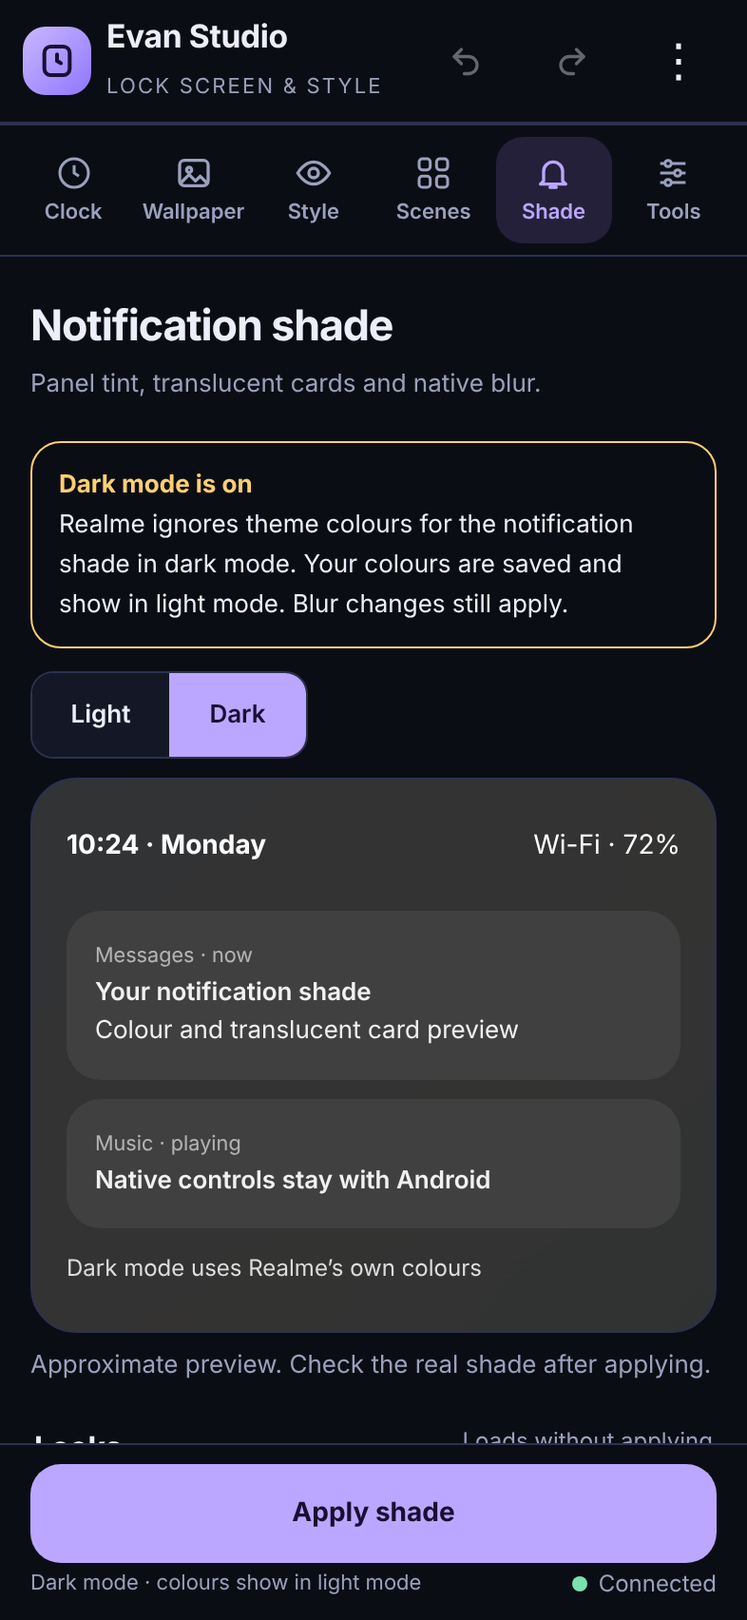
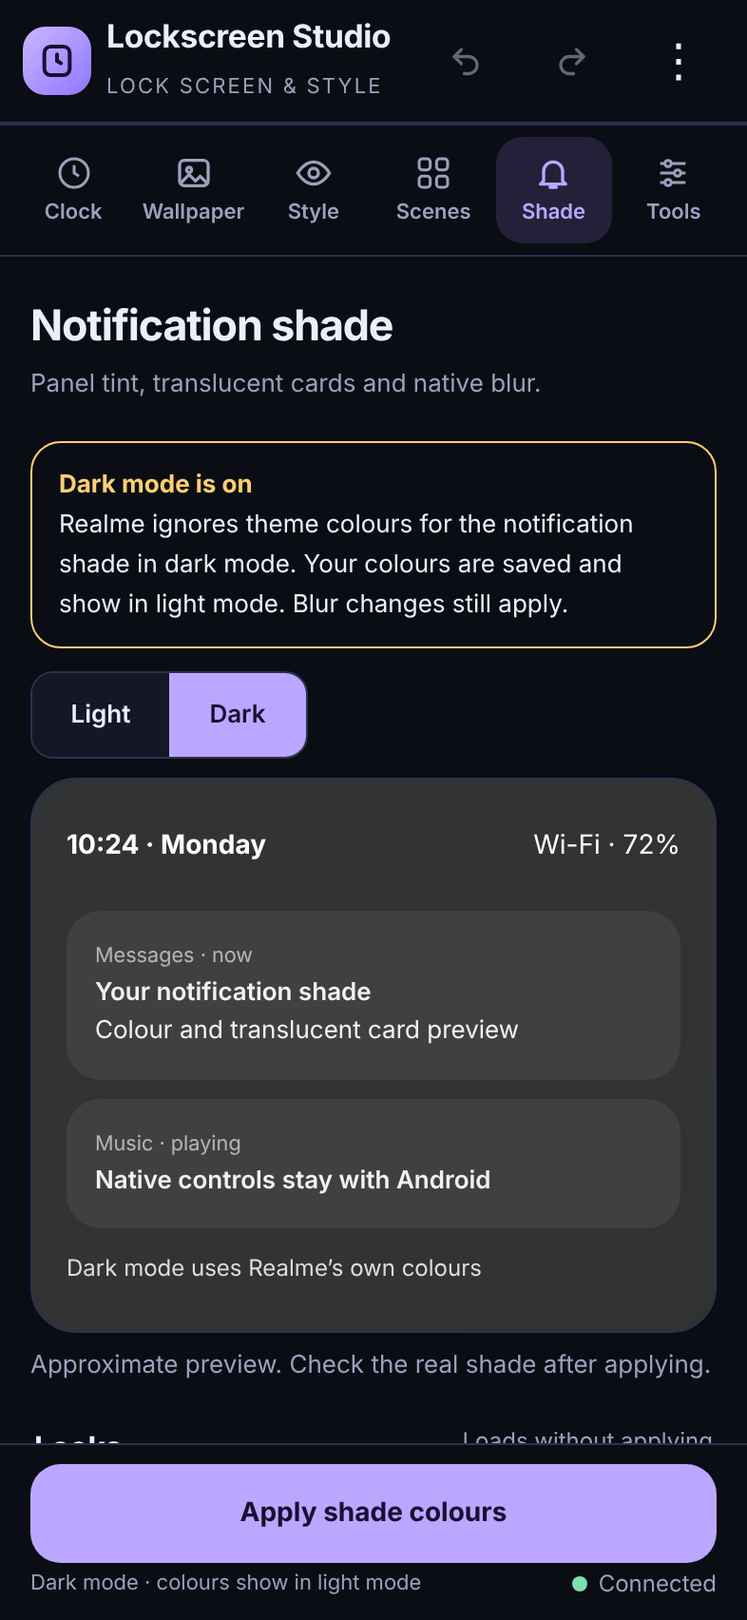
Rename the app to Lockscreen Studio in everything users see
- App label, editor header, theme metadata (Summary/Author), APK file name
  (Lockscreen-Studio-<version>.apk), the Downloads export folder
  (Download/LockscreenStudio) and export names (Lockscreen-Studio-,
  Lockscreen-Icons-, Lockscreen-Shade-), docs, release name and package.json.
- The example caption chip no longer inserts a personal name.
- Unchanged on purpose: package id np.evan.lockscreen, Java packages, and
  on-phone backup paths and file headers, so existing backups stay readable.
- Screenshots regenerated with the new name.

Claude-Session: https://claude.ai/code/session_019f7hZVUA3ZT7VV13Q7wsLy

Changed region(s): [[0.3359, 0.902, 0.6412, 0.9642], [0.1527, 0.0, 0.5191, 0.0311]]

diff --git a/assets/studio.html b/assets/studio.html
@@ -301,7 +301,7 @@ ol.steps2{padding-left:20px;display:grid;gap:8px;color:#c9cde2;font-size:0.84375
 <div class="app" id="app">
   <header class="top">
     <div class="logo"><svg width="20" height="20" viewBox="0 0 24 24" fill="none" stroke="currentColor" stroke-width="2.4" stroke-linecap="round"><rect x="4" y="3" width="16" height="18" rx="4"/><path d="M12 8v4l2.5 1.5"/></svg></div>
-    <div class="brand"><b>Evan Studio</b><small>Lock screen & style</small></div>
+    <div class="brand"><b>Lockscreen Studio</b><small>Lock screen & style</small></div>
     <button class="ib" id="undo" data-act="undo" aria-label="Undo"></button>
     <button class="ib" id="redo" data-act="redo" aria-label="Redo"></button>
     <button class="ib" data-act="editorMenu" aria-label="More options"></button>
@@ -574,7 +574,7 @@ function tabClock(){
  +`<div class="chips">${[['Upper','14,0'],['Centre','35,0'],['Lower','55,0'],['Left edge','35,-40'],['Right edge','35,40']].map(([l,v])=>`<button class="cp" data-act="place" data-v="${v}">${l}</button>`).join('')}</div>`)
  +sec('Typography','30 offline typefaces',card(`<button class="choice-row" data-act="fontPicker"><span class="sample" style="font-family:${f.f};font-weight:${fwOf(S)}">10:24</span><span class="choice-text"><b>${f.n}</b><small>Browse fonts</small></span><span aria-hidden="true">›</span></button>`+wrow)
  +`<details class="disclosure" data-disclosure="type"><summary>Fine-tune typography</summary>${slider('slant','Slant',0,20,1,'°')}${slider('spacing','Digit spacing',-10,30)}${slider('lh','Line spacing',60,140,1,'%')}${slider('rotate','Rotation',-45,45,1,'°')}${extra}<div class="row">${sel('align',[['left','Align left'],['center','Align centre'],['right','Align right']])}</div></details>`)
- +sec('Date & caption','Under the clock',card(toggle('showDate','Show date')+`<div class="row">${sel('dateStyle',['full','short','dm','caps','num','day'].map(v=>[v,dateText(v,new Date())]))}</div>`+slider('dateSize','Date size',20,70)+`<div class="row grid g2">${sel('dateFont',[['same','Match clock'],['inter','Inter'],['jetbrains','JetBrains Mono'],['fraunces','Fraunces'],['barlow','Barlow Condensed'],['spacegrotesk','Space Grotesk']])}${sel('dateCase',[['normal','Normal case'],['upper','UPPERCASE']])}</div>`+slider('dateTrack','Date tracking',0,30)+`<div class="row"><p class="mu sm" style="margin-bottom:8px">Personal caption</p><input class="txt" data-key="caption" value="${S.caption.replace(/"/g,'&quot;')}" maxlength="60" placeholder="Name, motto, or contact for lost phone"><div class="chips">${[['Name','Evan'],['If found, call…','If found, call +977-'],['Motto','Stay curious'],['Clear','']].map(([l,v])=>`<button class="cp" data-act="caption" data-v="${v}">${l}</button>`).join('')}</div></div>`))
+ +sec('Date & caption','Under the clock',card(toggle('showDate','Show date')+`<div class="row">${sel('dateStyle',['full','short','dm','caps','num','day'].map(v=>[v,dateText(v,new Date())]))}</div>`+slider('dateSize','Date size',20,70)+`<div class="row grid g2">${sel('dateFont',[['same','Match clock'],['inter','Inter'],['jetbrains','JetBrains Mono'],['fraunces','Fraunces'],['barlow','Barlow Condensed'],['spacegrotesk','Space Grotesk']])}${sel('dateCase',[['normal','Normal case'],['upper','UPPERCASE']])}</div>`+slider('dateTrack','Date tracking',0,30)+`<div class="row"><p class="mu sm" style="margin-bottom:8px">Personal caption</p><input class="txt" data-key="caption" value="${S.caption.replace(/"/g,'&quot;')}" maxlength="60" placeholder="Name, motto, or contact for lost phone"><div class="chips">${[['Name','Your name'],['If found, call…','If found, call +977-'],['Motto','Stay curious'],['Clear','']].map(([l,v])=>`<button class="cp" data-act="caption" data-v="${v}">${l}</button>`).join('')}</div></div>`))
  +sec('Time','Format & behaviour',card(toggle('h12','12-hour time')+toggle('seconds','Show seconds','Small seconds beside the minutes','t')+toggle('warm','Warm colour after dark',`Shifts the clock warmer (${pad(S.warmFrom)}:00 – ${pad(S.warmTo)}:00)`,'',true)+(S.warm?`<div class="row grid g2"><div><p class="mu sm" style="margin-bottom:6px">From</p>${sel('warmFrom',hours,1)}</div><div><p class="mu sm" style="margin-bottom:6px">Until</p>${sel('warmTo',hours,1)}</div></div>`:'')))
 ;
 }

diff --git a/src/np/evan/lockscreen/MainActivity.java b/src/np/evan/lockscreen/MainActivity.java
@@ -124,12 +124,12 @@ public final class MainActivity extends Activity {
   if(busy)return;if(apply&&(shell==null||!shell.isBinderAlive())){status("Connect Shizuku before applying icons.",true);return;}
   busy=true;status("Building icon module for your launcher apps…",false);
   worker.execute(()->{Uri saved=null;boolean complete=false;try{
-   byte[] bytes=IconThemeBuilder.build(this,pack,shape);String filename="Evan-Icons-"+System.currentTimeMillis()+".theme";
-   ContentValues v=new ContentValues();v.put(MediaStore.MediaColumns.DISPLAY_NAME,filename);v.put(MediaStore.MediaColumns.MIME_TYPE,"application/octet-stream");v.put(MediaStore.MediaColumns.RELATIVE_PATH,"Download/EvanLockscreen");v.put(MediaStore.MediaColumns.IS_PENDING,1);
+   byte[] bytes=IconThemeBuilder.build(this,pack,shape);String filename="Lockscreen-Icons-"+System.currentTimeMillis()+".theme";
+   ContentValues v=new ContentValues();v.put(MediaStore.MediaColumns.DISPLAY_NAME,filename);v.put(MediaStore.MediaColumns.MIME_TYPE,"application/octet-stream");v.put(MediaStore.MediaColumns.RELATIVE_PATH,"Download/LockscreenStudio");v.put(MediaStore.MediaColumns.IS_PENDING,1);
    saved=getContentResolver().insert(MediaStore.Downloads.EXTERNAL_CONTENT_URI,v);if(saved==null)throw new IOException("Cannot create icon export");
    try(OutputStream out=getContentResolver().openOutputStream(saved)){if(out==null)throw new IOException("Cannot write icon export");out.write(bytes);}
    v.clear();v.put(MediaStore.MediaColumns.IS_PENDING,0);getContentResolver().update(saved,v,null,null);complete=true;
-   String result=apply?call(5,new File(Environment.getExternalStorageDirectory(),"Download/EvanLockscreen/"+filename).getPath(),0):"Icon-only theme exported: Download/EvanLockscreen/"+filename;
+   String result=apply?call(5,new File(Environment.getExternalStorageDirectory(),"Download/LockscreenStudio/"+filename).getPath(),0):"Icon-only theme exported: Download/LockscreenStudio/"+filename;
    runOnUiThread(()->{busy=false;status(result,result==null||result.startsWith("ERROR:"));});
   }catch(Exception e){if(saved!=null&&!complete)try{getContentResolver().delete(saved,null,null);}catch(Exception ignored){}runOnUiThread(()->{busy=false;status("Icons: "+e.getMessage(),true);});}});
  }
@@ -162,8 +162,8 @@ public final class MainActivity extends Activity {
   busy=true;status("Building your scene. Keep the studio open until Theme Store reports completion and the clock is selected.",false);final ThemeBuilder.Design snapshot=design.copy();final File photo=file(photoName),subject=file(subjectName);
   worker.execute(()->{Uri saved=null;boolean complete=false;try{
    boolean safe=false;if(!snapshot.v2.isEmpty()){JSONObject doc=new JSONObject(snapshot.v2);doc.put("nextAlarm",alarmText());JSONObject styles=doc.optJSONObject("scheduleStyles");if(styles!=null)for(String slot:new String[]{"day","eve","night"}){JSONObject style=styles.optJSONObject(slot);if(style!=null)style.put("nextAlarm",alarmText());}snapshot.v2=doc.toString();safe=doc.optBoolean("safeRevert",false);}
-   byte[] bytes=ThemeBuilder.build(snapshot,photo,subject);String filename="Evan-Lockscreen-"+System.currentTimeMillis()+".theme";ContentValues v=new ContentValues();v.put(MediaStore.MediaColumns.DISPLAY_NAME,filename);v.put(MediaStore.MediaColumns.MIME_TYPE,"application/octet-stream");v.put(MediaStore.MediaColumns.RELATIVE_PATH,"Download/EvanLockscreen");v.put(MediaStore.MediaColumns.IS_PENDING,1);saved=getContentResolver().insert(MediaStore.Downloads.EXTERNAL_CONTENT_URI,v);if(saved==null)throw new IOException("Could not create export");try(OutputStream out=getContentResolver().openOutputStream(saved)){if(out==null)throw new IOException("Could not write export");out.write(bytes);}v.clear();v.put(MediaStore.MediaColumns.IS_PENDING,0);getContentResolver().update(saved,v,null,null);complete=true;
-   String path=new File(Environment.getExternalStorageDirectory(),"Download/EvanLockscreen/"+filename).getPath();String result=apply?call(1,path,safe?1:0):"Exported to Download/EvanLockscreen/"+filename;runOnUiThread(()->{busy=false;if(result!=null&&result.startsWith("CONFIRM:")){try{emit("confirm",new JSONObject().put("until",Long.parseLong(result.split(":",3)[1])));}catch(Exception ignored){}status("Theme applied. Confirm Keep, otherwise it will be reverted.",false);}else status(result,result==null||result.startsWith("ERROR:"));});
+   byte[] bytes=ThemeBuilder.build(snapshot,photo,subject);String filename="Lockscreen-Studio-"+System.currentTimeMillis()+".theme";ContentValues v=new ContentValues();v.put(MediaStore.MediaColumns.DISPLAY_NAME,filename);v.put(MediaStore.MediaColumns.MIME_TYPE,"application/octet-stream");v.put(MediaStore.MediaColumns.RELATIVE_PATH,"Download/LockscreenStudio");v.put(MediaStore.MediaColumns.IS_PENDING,1);saved=getContentResolver().insert(MediaStore.Downloads.EXTERNAL_CONTENT_URI,v);if(saved==null)throw new IOException("Could not create export");try(OutputStream out=getContentResolver().openOutputStream(saved)){if(out==null)throw new IOException("Could not write export");out.write(bytes);}v.clear();v.put(MediaStore.MediaColumns.IS_PENDING,0);getContentResolver().update(saved,v,null,null);complete=true;
+   String path=new File(Environment.getExternalStorageDirectory(),"Download/LockscreenStudio/"+filename).getPath();String result=apply?call(1,path,safe?1:0):"Exported to Download/LockscreenStudio/"+filename;runOnUiThread(()->{busy=false;if(result!=null&&result.startsWith("CONFIRM:")){try{emit("confirm",new JSONObject().put("until",Long.parseLong(result.split(":",3)[1])));}catch(Exception ignored){}status("Theme applied. Confirm Keep, otherwise it will be reverted.",false);}else status(result,result==null||result.startsWith("ERROR:"));});
   }catch(Exception e){if(saved!=null&&!complete)try{getContentResolver().delete(saved,null,null);}catch(Exception ignored){}runOnUiThread(()->{busy=false;status("Apply/export: "+e.getMessage(),true);});}});
  }
  private void engineAction(int code){engineAction(code,null);}
@@ -173,7 +173,7 @@ public final class MainActivity extends Activity {
  private int batteryPercent(){try{Intent i=registerReceiver(null,new IntentFilter(Intent.ACTION_BATTERY_CHANGED));return i==null?0:Math.round(100f*i.getIntExtra(BatteryManager.EXTRA_LEVEL,0)/Math.max(1,i.getIntExtra(BatteryManager.EXTRA_SCALE,100)));}catch(Exception e){return 0;}}
  private void details(){try{
   String theme="Not found",wallpaper="Static wallpaper or unavailable";try{theme=getPackageManager().getPackageInfo("com.oplus.themestore",0).versionName;}catch(Exception ignored){}try{android.app.WallpaperInfo info=WallpaperManager.getInstance(this).getWallpaperInfo();if(info!=null)wallpaper=info.getPackageName()+" / "+info.getServiceName();}catch(Exception ignored){}
-  emit("details",new JSONObject().put("version","0.7.0").put("device",Build.MANUFACTURER+" "+Build.MODEL).put("android",Build.VERSION.RELEASE).put("themeStore",theme).put("wallpaper",wallpaper).put("exports","Download/EvanLockscreen").put("security","Native keyguard; PIN and fingerprint stay managed by Android.").put("privacy","No Internet permission. Photos, presets and compatibility details stay on this device."));
+  emit("details",new JSONObject().put("version","0.7.0").put("device",Build.MANUFACTURER+" "+Build.MODEL).put("android",Build.VERSION.RELEASE).put("themeStore",theme).put("wallpaper",wallpaper).put("exports","Download/LockscreenStudio").put("security","Native keyguard; PIN and fingerprint stay managed by Android.").put("privacy","No Internet permission. Photos, presets and compatibility details stay on this device."));
  }catch(Exception e){status(e.getMessage(),true);}}
  @Override public void onBackPressed(){if(web!=null&&ready)web.evaluateJavascript("window.handleBack?window.handleBack():false",result->{if(!"true".equals(result))MainActivity.super.onBackPressed();});else super.onBackPressed();}
  @Override protected void onPause(){if(web!=null)web.onPause();super.onPause();}

diff --git a/src/np/evan/lockscreen/ShellService.java b/src/np/evan/lockscreen/ShellService.java
@@ -11,7 +11,7 @@ import java.util.zip.ZipFile;
 public final class ShellService extends Binder {
  public static final String DESCRIPTOR="np.evan.lockscreen.ThemeShell";
  private final EngineSelection selection=new EngineSelection(this::command);
- private final ShadeLab shade=new ShadeLab(new ShadeLab.Phone(){public String run(String... args)throws Exception{return command(args);}public void pause(long millis)throws Exception{Thread.sleep(millis);}},new File("/data/theme"),new File("/data/local/tmp/evan-lockscreen-shade"),new File("/storage/emulated/0/Download/EvanLockscreen"));
+ private final ShadeLab shade=new ShadeLab(new ShadeLab.Phone(){public String run(String... args)throws Exception{return command(args);}public void pause(long millis)throws Exception{Thread.sleep(millis);}},new File("/data/theme"),new File("/data/local/tmp/evan-lockscreen-shade"),new File("/storage/emulated/0/Download/LockscreenStudio"));
  private final AodLab.Phone settings=new AodLab.Phone(){
   public int currentUser()throws Exception{return Integer.parseInt(command("/system/bin/am","get-current-user"));}
   public String read(int user,String space,String key)throws Exception{String value=command("/system/bin/settings","--user",Integer.toString(user),"get",space,key);return value.equals("null")?null:value;}
@@ -81,8 +81,8 @@ public final class ShellService extends Binder {
  private String apply(String path,boolean iconsOnly)throws Exception{
   if(path==null)throw new IOException("No exported file");
   File file=new File(path).getCanonicalFile();
-  String root=new File("/storage/emulated/0/Download/EvanLockscreen").getCanonicalPath()+"/";
-  if(!file.getPath().startsWith(root)||!file.getName().matches((iconsOnly?"Evan-Icons-":"Evan-Lockscreen-")+"[0-9]+\\.theme"))throw new IOException("Only this editor's Downloads/EvanLockscreen exports are allowed");
+  String root=new File("/storage/emulated/0/Download/LockscreenStudio").getCanonicalPath()+"/";
+  if(!file.getPath().startsWith(root)||!file.getName().matches((iconsOnly?"Lockscreen-Icons-":"Lockscreen-Studio-")+"[0-9]+\\.theme"))throw new IOException("Only this editor's Downloads/LockscreenStudio exports are allowed");
   if(!file.isFile())throw new IOException("Export is missing: "+file);
   try(ZipFile zip=new ZipFile(file)){
    if(zip.getEntry("themeInfo.xml")==null||zip.getEntry("wallpaper")==null||zip.getEntry(iconsOnly?"icons":"lock/lockstyle")==null)throw new IOException("Incomplete native theme package");

diff --git a/src/np/evan/lockscreen/NativeThemeFiles.java b/src/np/evan/lockscreen/NativeThemeFiles.java
@@ -43,7 +43,7 @@ public final class NativeThemeFiles {
  }
  public static byte[] pack(Map<String,byte[]> resources)throws IOException{
   Map<String,byte[]> r=new LinkedHashMap<>(resources);r.remove("config");r.remove("themeInfo.xml");if(!r.containsKey("wallpaper"))r.put("wallpaper",emptyZip());check(r);
-  String id=UUID.randomUUID().toString().toUpperCase(Locale.US);StringBuilder meta=new StringBuilder("<?xml version=\"1.0\" encoding=\"UTF-8\"?><OppoSmartPhoneThemeInfo><Summary>Evan Studio</Summary><Author>Evan</Author><EditorVersion>6</EditorVersion><UUID>").append(id).append("</UUID><VersionCode>1</VersionCode><PackageName>").append(id).append("</PackageName><IsGlobalTheme>0</IsGlobalTheme><lockState>0</lockState><disableLockPictorial>0</disableLockPictorial><enableLauncherApplyEffect>0</enableLauncherApplyEffect>");
+  String id=UUID.randomUUID().toString().toUpperCase(Locale.US);StringBuilder meta=new StringBuilder("<?xml version=\"1.0\" encoding=\"UTF-8\"?><OppoSmartPhoneThemeInfo><Summary>Lockscreen Studio</Summary><Author>Lockscreen Studio</Author><EditorVersion>6</EditorVersion><UUID>").append(id).append("</UUID><VersionCode>1</VersionCode><PackageName>").append(id).append("</PackageName><IsGlobalTheme>0</IsGlobalTheme><lockState>0</lockState><disableLockPictorial>0</disableLockPictorial><enableLauncherApplyEffect>0</enableLauncherApplyEffect>");
   for(String n:r.keySet()){if(!n.matches("[A-Za-z0-9_./-]+"))throw new IOException("Unsupported native module name: "+n);meta.append("<package name=\"").append(n).append("\" version=\"\"/>");}meta.append("</OppoSmartPhoneThemeInfo>");r.put("themeInfo.xml",meta.toString().getBytes("UTF-8"));return zip(r);
  }
  public static void preserveExport(File exported,File nativeRoot)throws Exception{

diff --git a/src/np/evan/lockscreen/ThemeBuilder.java b/src/np/evan/lockscreen/ThemeBuilder.java
@@ -131,7 +131,7 @@ public final class ThemeBuilder {
     }
     public static byte[] packageTheme(byte[] wallpaperZip,byte[] lockZip)throws IOException {
         String id=UUID.randomUUID().toString().toUpperCase(Locale.US);
-        String info="<?xml version=\"1.0\" encoding=\"UTF-8\"?><OppoSmartPhoneThemeInfo><Summary>Evan Lockscreen</Summary><Author>Evan Lockscreen Editor</Author><EditorVersion>6</EditorVersion><UUID>"+id+"</UUID><VersionCode>1</VersionCode><PackageName>"+id+"</PackageName><Description>Personal wallpaper and clock design</Description><IsGlobalTheme>0</IsGlobalTheme><lockState>0</lockState><disableLockPictorial>0</disableLockPictorial><enableLauncherApplyEffect>0</enableLauncherApplyEffect><package name=\"wallpaper\" version=\"\"/><package name=\"lock/lockstyle\" version=\"\"/></OppoSmartPhoneThemeInfo>";
+        String info="<?xml version=\"1.0\" encoding=\"UTF-8\"?><OppoSmartPhoneThemeInfo><Summary>Lockscreen Studio</Summary><Author>Lockscreen Studio</Author><EditorVersion>6</EditorVersion><UUID>"+id+"</UUID><VersionCode>1</VersionCode><PackageName>"+id+"</PackageName><Description>Personal wallpaper and clock design</Description><IsGlobalTheme>0</IsGlobalTheme><lockState>0</lockState><disableLockPictorial>0</disableLockPictorial><enableLauncherApplyEffect>0</enableLauncherApplyEffect><package name=\"wallpaper\" version=\"\"/><package name=\"lock/lockstyle\" version=\"\"/></OppoSmartPhoneThemeInfo>";
         Map<String,byte[]> out=new LinkedHashMap<>();out.put("themeInfo.xml",info.getBytes("UTF-8"));out.put("wallpaper",wallpaperZip);out.put("lock/lockstyle",lockZip);
         // This path is for the native apply service; Theme Store's preview importer is not used.
         return zip(out);

diff --git a/src/np/evan/lockscreen/IconThemeBuilder.java b/src/np/evan/lockscreen/IconThemeBuilder.java
@@ -97,7 +97,7 @@ public final class IconThemeBuilder {
  }
  public static byte[] packageIcons(byte[] icons,byte[] launcher)throws IOException{
   String id=UUID.randomUUID().toString().toUpperCase(Locale.US);
-  String info="<?xml version=\"1.0\" encoding=\"UTF-8\"?><OppoSmartPhoneThemeInfo><Summary>Evan Icons</Summary><Author>Evan Lockscreen Editor</Author><EditorVersion>6</EditorVersion><UUID>"+id+"</UUID><VersionCode>1</VersionCode><PackageName>"+id+"</PackageName><IsGlobalTheme>0</IsGlobalTheme><lockState>0</lockState><package name=\"wallpaper\" version=\"\"/><package name=\"icons\" version=\"\"/><package name=\"com.oppo.launcher\" version=\"\"/></OppoSmartPhoneThemeInfo>";
+  String info="<?xml version=\"1.0\" encoding=\"UTF-8\"?><OppoSmartPhoneThemeInfo><Summary>Lockscreen Studio Icons</Summary><Author>Lockscreen Studio</Author><EditorVersion>6</EditorVersion><UUID>"+id+"</UUID><VersionCode>1</VersionCode><PackageName>"+id+"</PackageName><IsGlobalTheme>0</IsGlobalTheme><lockState>0</lockState><package name=\"wallpaper\" version=\"\"/><package name=\"icons\" version=\"\"/><package name=\"com.oppo.launcher\" version=\"\"/></OppoSmartPhoneThemeInfo>";
   Map<String,byte[]> root=new LinkedHashMap<>();root.put("themeInfo.xml",info.getBytes("UTF-8"));root.put("wallpaper",ThemeBuilder.wallpaperComponent(new byte[0],true));root.put("icons",icons);root.put("com.oppo.launcher",launcher);return zip(root);
  }
 }

diff --git a/build.py b/build.py
@@ -59,10 +59,10 @@ key=pathlib.Path(os.environ['EVAN_KEYSTORE']) if os.environ.get('EVAN_KEYSTORE')
 if not os.environ.get('EVAN_KEYSTORE'):
  print('Signing with the local development key; this APK cannot update a release install.',flush=True)
  key.parent.mkdir(exist_ok=True)
- if not key.is_file():run('keytool','-genkeypair','-alias','dev','-keyalg','RSA','-keysize','3072','-validity','10000','-keystore',key,'-storetype','PKCS12','-storepass','android','-keypass','android','-dname','CN=Evan Lockscreen local development','-noprompt')
+ if not key.is_file():run('keytool','-genkeypair','-alias','dev','-keyalg','RSA','-keysize','3072','-validity','10000','-keystore',key,'-storetype','PKCS12','-storepass','android','-keypass','android','-dname','CN=Lockscreen Studio local development','-noprompt')
 run('java','-jar',TOOLS/'ecj.jar','-17','-nowarn','-classpath',TOOLS/'apksig.jar','-d',BUILD/'sign',ROOT/'SignApk.java')
 version=re.search(r'versionName="([^"]+)"',(ROOT/'AndroidManifest.xml').read_text()).group(1)
-out=DIST/('Evan-Lockscreen-'+version+'.apk')
+out=DIST/('Lockscreen-Studio-'+version+'.apk')
 run('java','-cp',str(BUILD/'sign')+os.pathsep+str(TOOLS/'apksig.jar'),'SignApk',BUILD/'unsigned.apk',out,key)
 run('java','-cp',str(BUILD/'sign')+os.pathsep+str(TOOLS/'apksig.jar'),'SignApk','verify',out)
 print('Built:',out)

diff --git a/src/np/evan/lockscreen/ShadeLab.java b/src/np/evan/lockscreen/ShadeLab.java
@@ -41,8 +41,8 @@ public final class ShadeLab {
  private String install(Map<String,byte[]> target,String[] selected,String prop,String success)throws Exception{
   if(!target.containsKey("wallpaper"))target.put("wallpaper",NativeThemeFiles.emptyZip());
   // Each export is a full copy of the current theme; keep at most the one being imported.
-  File[] old=exports.listFiles((d,n)->n.matches("Evan-Shade-[0-9]+\\.theme"));if(old!=null)for(File f:old)f.delete();
-  File theme=new File(exports,"Evan-Shade-"+System.currentTimeMillis()+".theme");NativeThemeFiles.atomic(theme,NativeThemeFiles.pack(target));
+  File[] old=exports.listFiles((d,n)->n.matches("Lockscreen-Shade-[0-9]+\\.theme"));if(old!=null)for(File f:old)f.delete();
+  File theme=new File(exports,"Lockscreen-Shade-"+System.currentTimeMillis()+".theme");NativeThemeFiles.atomic(theme,NativeThemeFiles.pack(target));
   // A complete recovery pair is committed before Theme Store can change the selection.
   NativeThemeFiles.atomic(new File(work,"last-engine.txt"),(selected[0]+"\n"+selected[1]+"\n").getBytes("UTF-8"));
   boolean requested=false;Exception failure=null;

diff --git a/docs/technical-notes.md b/docs/technical-notes.md
@@ -1,10 +1,12 @@
 # Technical notes
 
-Detailed behaviour, native mechanisms and validation notes for Evan Lockscreen Studio,
+Detailed behaviour, native mechanisms and validation notes for Lockscreen Studio,
 kept as the project's change history. The user-facing overview is the
 [README](../README.md); research write-ups are [AOD-research.md](AOD-research.md) and
 [Shade-dark-mode.md](Shade-dark-mode.md). Sections are ordered newest first; the
-"owner" in older notes is the maintainer whose RMX3521 the features were tested on.
+"owner" in older notes is the maintainer whose RMX3521 the features were tested on. The app was called
+"Evan Lockscreen Studio" up to 0.7.0; exports then lived in `Download/EvanLockscreen`
+as `Evan-*.theme`. From 0.8.0 they are `Download/LockscreenStudio/Lockscreen-*.theme`.
 
 ## New in 0.7.0
 
@@ -176,4 +178,4 @@ The main interface is `assets/studio.html`; native V2 rendering is `StudioTheme.
 
 Run `EVAN_ANDROID_TOOLS=/path/to/android-tools python3 build.py` on Linux with Python 3 and Java 17+. Without that variable, build tools download into `.tools`. Google Play services/ML Kit dependencies are resolved by `mlkit-deps.py`. Bundled fonts are included in the source archive; `fetch-fonts.py` can restore them from Google's font repository. Roboto Slab uses the Apache license, and the other bundled families carry their included OFL licenses. Shizuku's MIT license is included. Local builds sign with a generated development key in `.signing/` (see CONTRIBUTING.md).
 
-For UI checks: `STUDIO_CHROME=/path/to/chrome node tests/ui-check.cjs` and `STUDIO_CHROME=/path/to/chrome node tests/responsive-ui-check.cjs`. Output: `dist/Evan-Lockscreen-0.7.0.apk`. Native theme syntax reference: https://zhuti.designer.xiaomi.com/docs/grammar/ (Xiaomi's documentation does not guarantee support in Realme's fork).
+For UI checks: `STUDIO_CHROME=/path/to/chrome node tests/ui-check.cjs` and `STUDIO_CHROME=/path/to/chrome node tests/responsive-ui-check.cjs`. Output: `dist/Lockscreen-Studio-<version>.apk`. Native theme syntax reference: https://zhuti.designer.xiaomi.com/docs/grammar/ (Xiaomi's documentation does not guarantee support in Realme's fork).

diff --git a/README.md b/README.md
@@ -1,4 +1,4 @@
-# Evan Lockscreen Studio
+# Lockscreen Studio
 
 [![CI](https://github.com/EvanSunde/Realme-UI-customization/actions/workflows/ci.yml/badge.svg)](https://github.com/EvanSunde/Realme-UI-customization/actions/workflows/ci.yml)
 [![Release](https://img.shields.io/github/v/release/EvanSunde/Realme-UI-customization)](https://github.com/EvanSunde/Realme-UI-customization/releases/latest)
@@ -60,7 +60,7 @@ with your model and what worked.
 
 1. Install and start [Shizuku](https://shizuku.rikka.app/guide/setup/). Wireless
    debugging works; root isn't needed.
-2. Download the latest `Evan-Lockscreen-*.apk` from
+2. Download the latest `Lockscreen-Studio-*.apk` from
    [Releases](https://github.com/EvanSunde/Realme-UI-customization/releases/latest) and
    install it.
 3. Open the studio and grant Shizuku access once.
@@ -123,7 +123,7 @@ please report security problems privately as described in [SECURITY.md](SECURITY
 
 Copyright (C) 2026 EvanSunde and contributors.
 
-Evan Lockscreen Studio is free software: you can redistribute it and/or modify it under
+Lockscreen Studio is free software: you can redistribute it and/or modify it under
 the terms of the [GNU General Public License v3.0](LICENSE). It also grants an additional
 permission under section 7 to combine the app with Google ML Kit and Google Play services
 libraries. Bundled fonts (SIL OFL 1.1 / Apache 2.0) and Shizuku (MIT) keep their own

diff --git a/CONTRIBUTING.md b/CONTRIBUTING.md
@@ -65,7 +65,7 @@ The release key exists only in repository secrets. Create it once on your own co
 
 ```sh
 keytool -genkeypair -alias release -keyalg RSA -keysize 4096 -validity 10000 \
-  -keystore release.keystore -storetype PKCS12 -dname "CN=Evan Lockscreen Studio"
+  -keystore release.keystore -storetype PKCS12 -dname "CN=Lockscreen Studio"
 base64 -w0 release.keystore > release.keystore.b64
 ```
 

diff --git a/SECURITY.md b/SECURITY.md
@@ -1,6 +1,6 @@
 # Security policy
 
-Evan Lockscreen Studio runs a helper inside Shizuku with **shell (adb) privileges**. It
+Lockscreen Studio runs a helper inside Shizuku with **shell (adb) privileges**. It
 can change system settings and install themes, so security problems matter.
 
 ## Reporting a vulnerability
